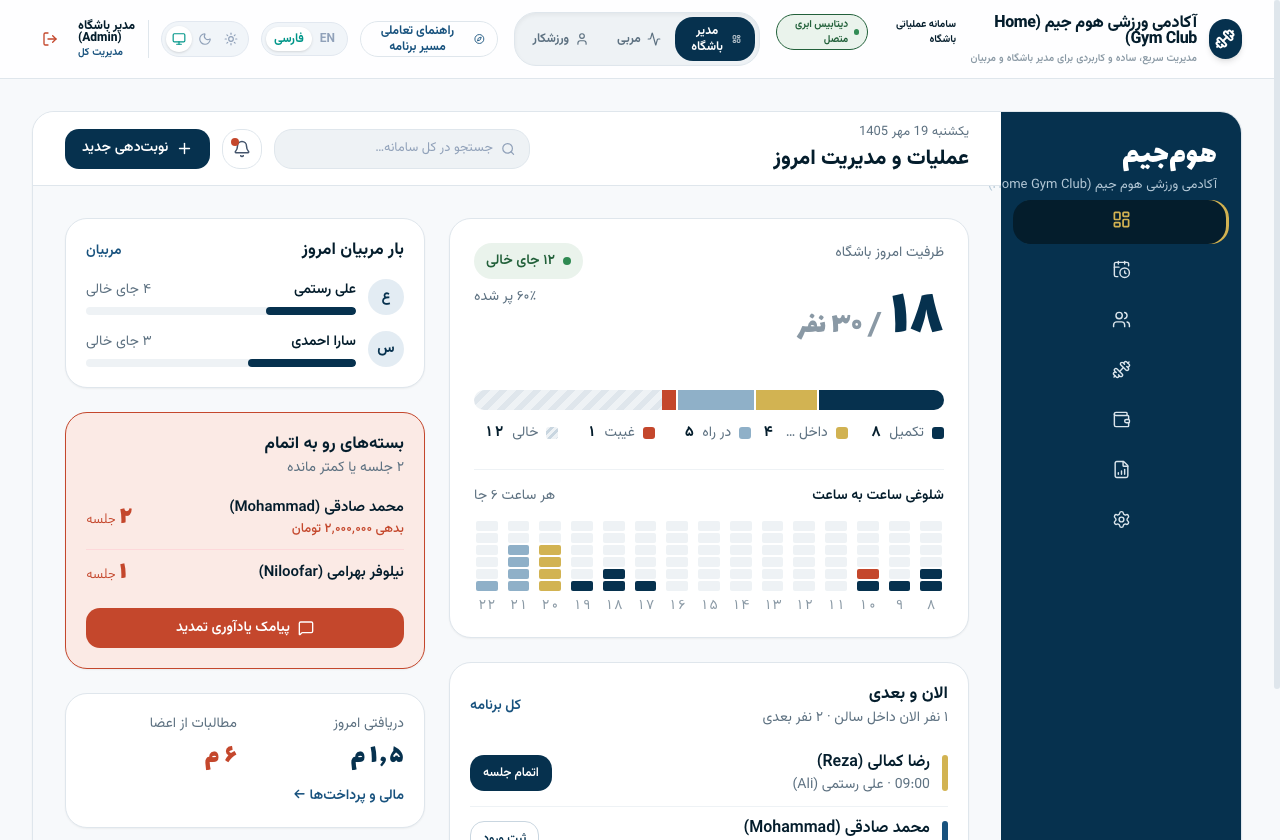
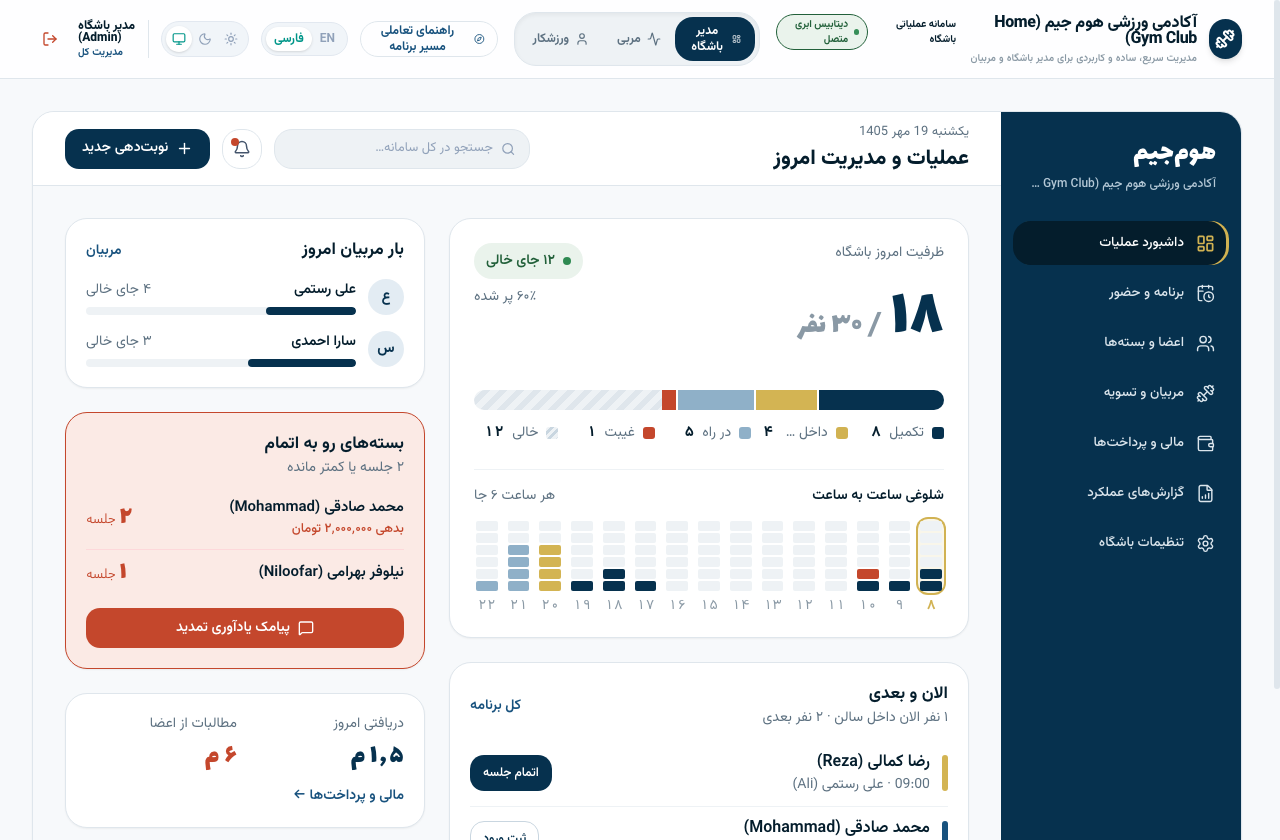
fix(owner): restore sidebar navigation menu titles in desktop layout

diff --git a/src/features/owner/OwnerShell.tsx b/src/features/owner/OwnerShell.tsx
@@ -84,13 +84,14 @@ export function OwnerShell() {
         className="hidden md:flex flex-col shrink-0 lg:w-60 md:w-[84px] transition-all duration-200 select-none"
       >
         {/* برند و لوگو */}
-        <div className="lg:px-6 lg:pt-7 lg:pb-6 md:h-20 md:grid md:place-items-center">
-          <div className="hidden lg:block">
-            <div className="font-display text-[32px] leading-none text-white">
+        <div className="md:h-20 md:grid md:place-items-center lg:block lg:h-auto lg:text-start lg:px-5 lg:pt-6 lg:pb-5">
+          <div className="hidden lg:block min-w-0 overflow-hidden">
+            <div className="font-display text-[28px] leading-tight text-white font-bold">
               هومجیم
             </div>
             <div
-              className="mt-1 text-[13px] truncate"
+              className="mt-1 text-[12px] truncate font-medium max-w-[190px]"
+              title={mockStore.gym.name}
               style={{ color: '#b4c8d6' }}
             >
               {mockStore.gym.name}
@@ -98,7 +99,7 @@ export function OwnerShell() {
           </div>
           <span
             style={{ color: 'var(--c-brass)' }}
-            className="lg:hidden font-display text-[30px]"
+            className="lg:hidden font-display text-[28px] font-bold"
           >
             هـ
           </span>
@@ -121,7 +122,7 @@ export function OwnerShell() {
                     : 'transparent',
                   color: isActive ? '#ffffff' : '#dbe5ec',
                 }}
-                className={`w-full flex items-center lg:gap-3 lg:px-3.5 lg:h-11 md:flex-col md:py-2.5 md:gap-1 rounded-xl text-[14px] transition-all cursor-pointer ${
+                className={`w-full flex items-center md:flex-col md:justify-center md:py-2.5 md:gap-1.5 md:h-auto lg:flex-row lg:justify-start lg:gap-3 lg:px-3.5 lg:py-0 lg:h-11 rounded-xl text-[14px] transition-all cursor-pointer ${
                   isActive
                     ? 'font-bold shadow-[inset_-3px_0_0_var(--c-brass)]'
                     : 'hover:bg-white/10'
@@ -133,8 +134,12 @@ export function OwnerShell() {
                   style={{ color: isActive ? 'var(--c-brass)' : 'currentColor' }}
                   className="shrink-0"
                 />
-                <span className="truncate hidden lg:inline">{item.label}</span>
-                <span className="text-[12px] lg:hidden">{item.shortLabel}</span>
+                <span className="hidden lg:inline-block truncate text-[13.5px] font-medium leading-none text-start flex-1">
+                  {item.label}
+                </span>
+                <span className="text-[11px] font-medium leading-none lg:hidden">
+                  {item.shortLabel}
+                </span>
               </button>
             );
           })}
